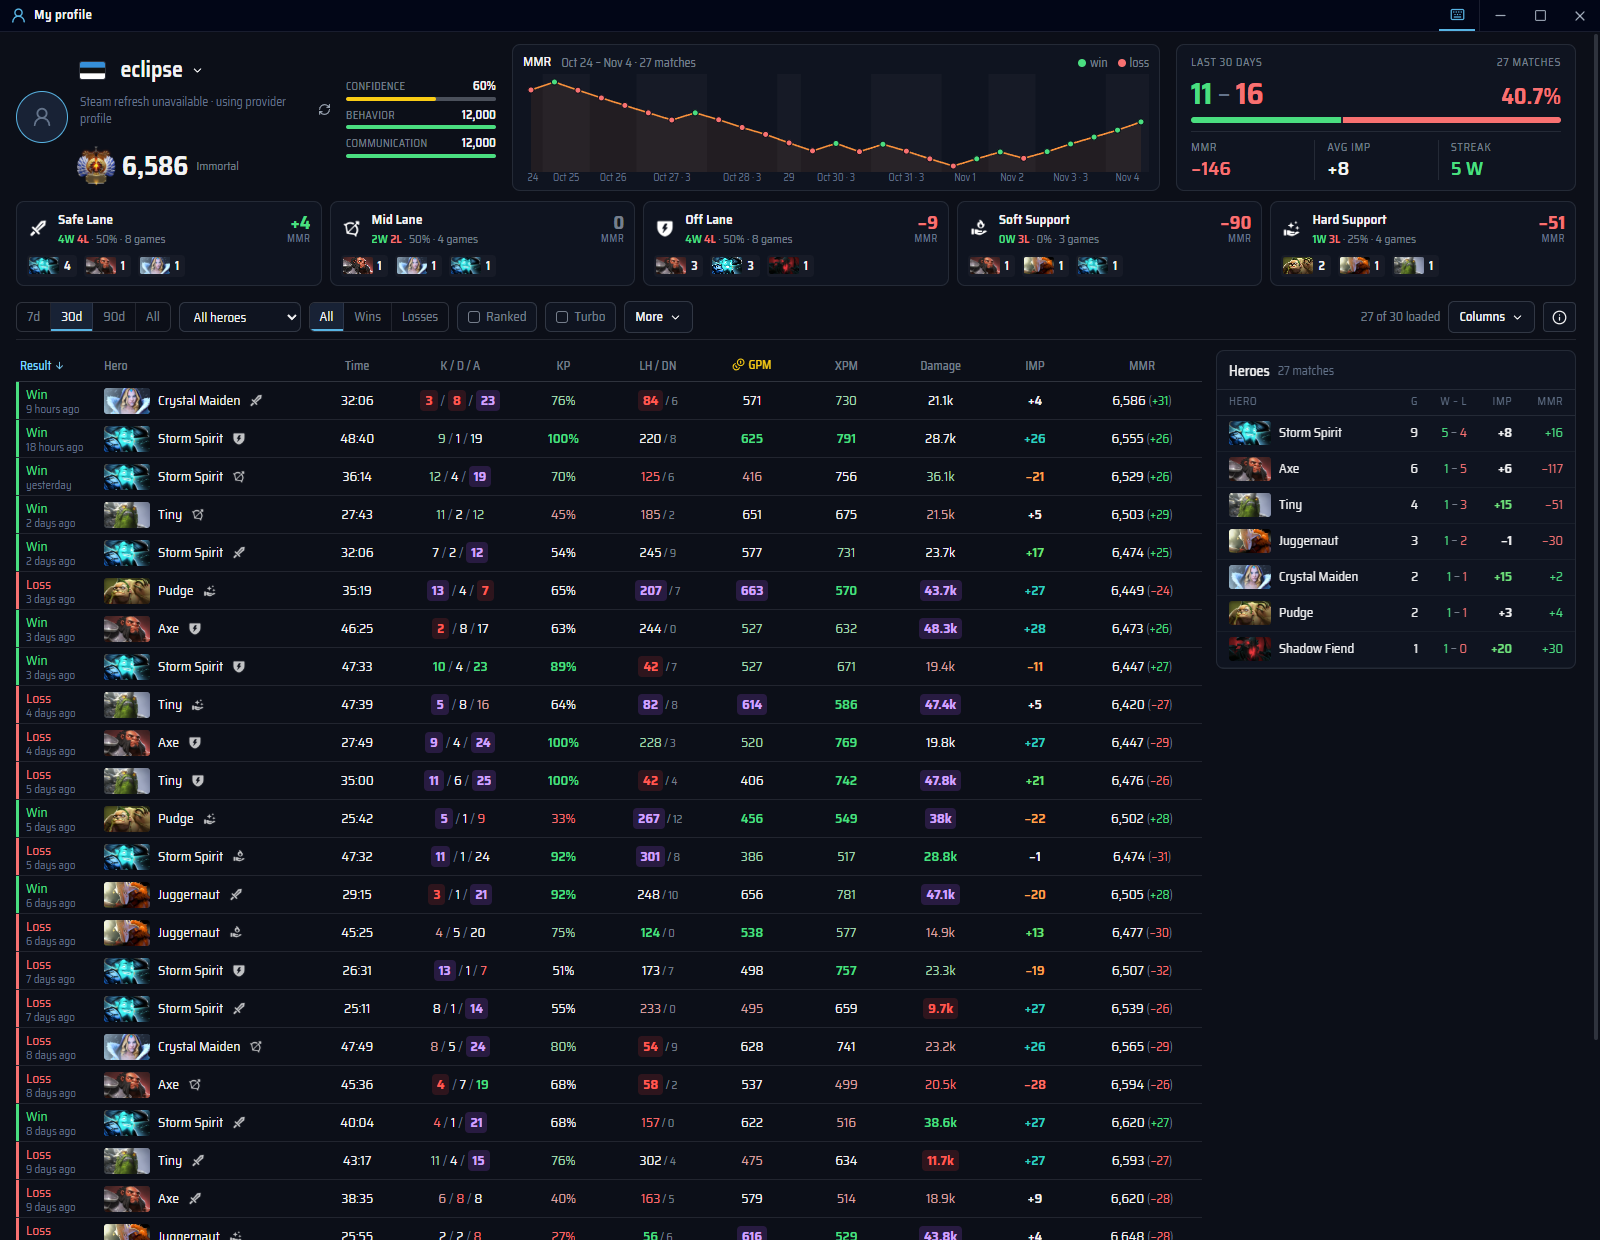
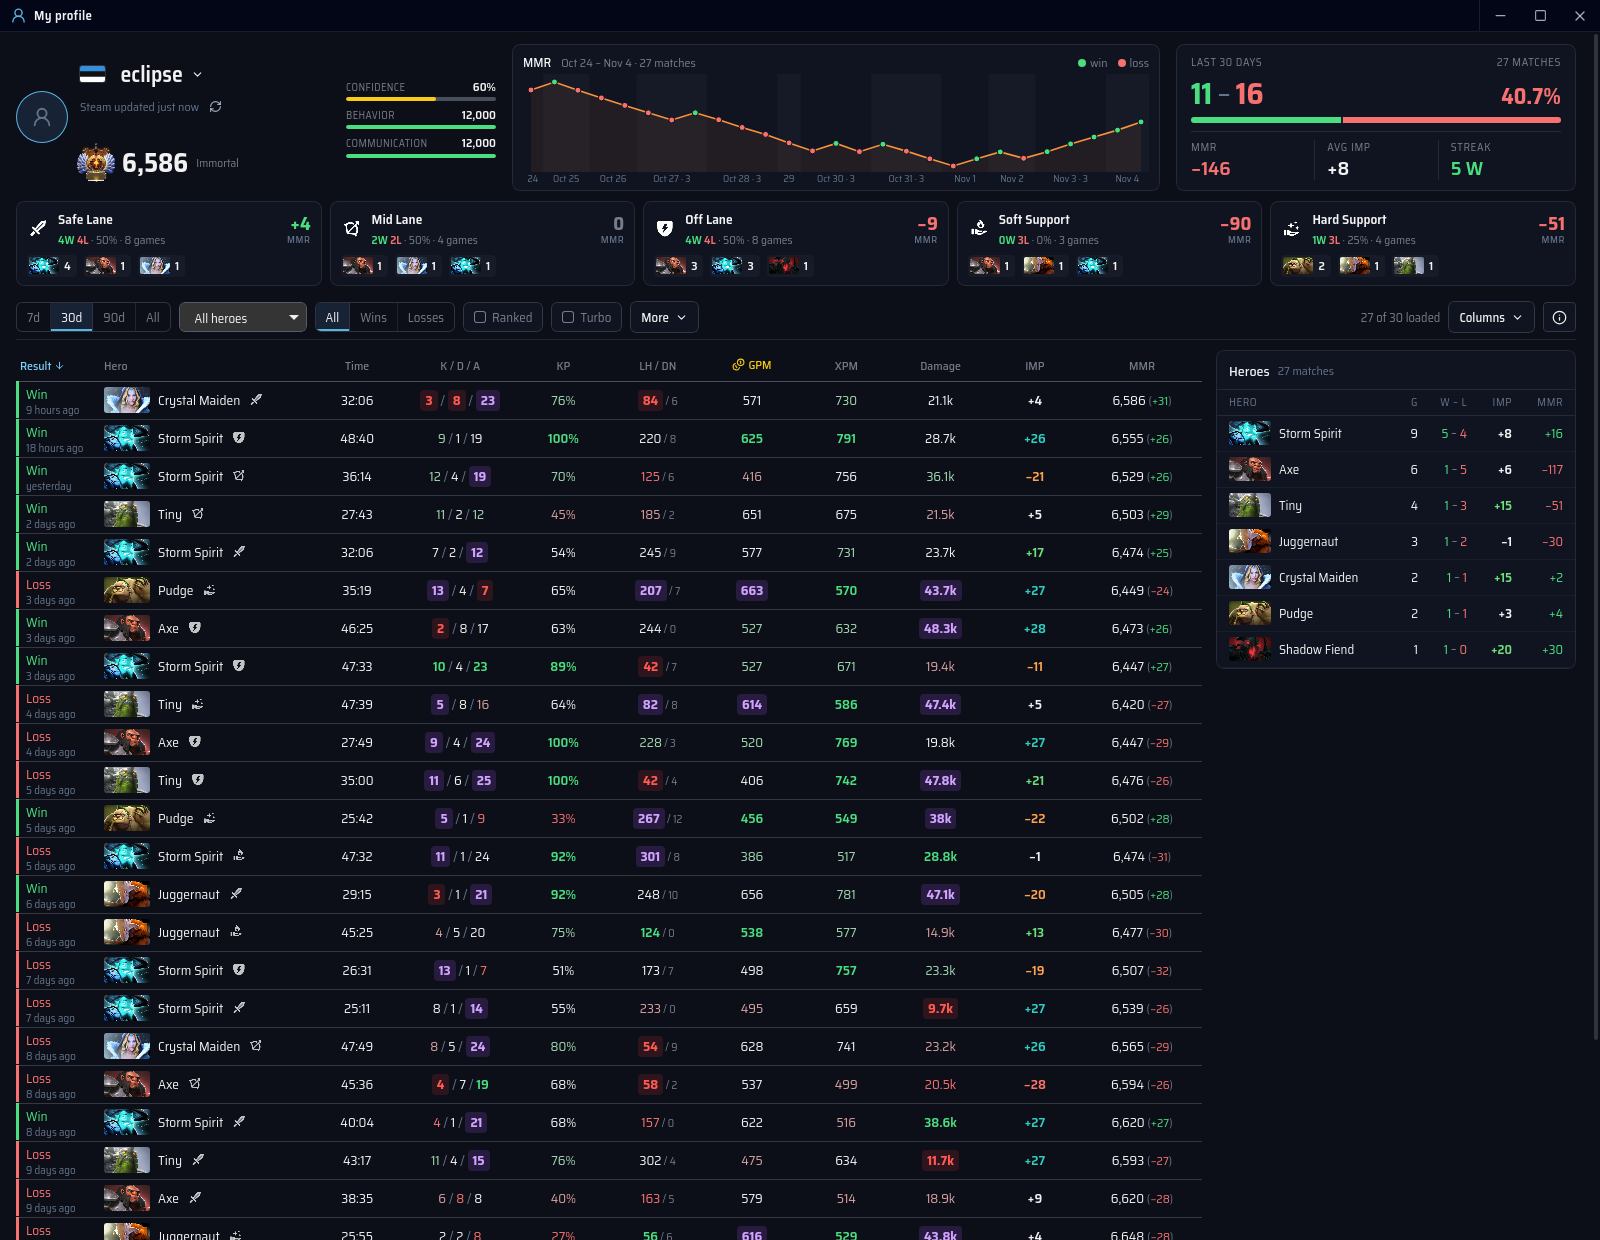
fix(docs): give screenshots and the demo a synthetic Steam identity (#124)
Since My profile refreshes the name and avatar from Steam Community (#87),
isolated runs served only a cached steam-profile-v1 fixture, and neither the
screenshot nor the demo script wrote one, so the profile header read "Steam
refresh unavailable · using provider profile". A fixture alone did not fit:
validation required a Steam CDN avatar, which a capture would then load.

Isolated runs now accept a fixture whose avatar is empty; the page draws its
placeholder, so nothing is requested from Steam or its image servers. Live
and non-isolated caches keep the strict Steam-host check. Both scripts write
a fresh fixture for the own account. The demonstration banner on My profile
follows the statistics only, so the synthetic identity does not add one to
the docs image; cached isolated history is still labelled.

docs/images/profile.png is regenerated.

Closes #121

diff --git a/src/ui/OwnProfile.tsx b/src/ui/OwnProfile.tsx
@@ -329,7 +329,9 @@ function OwnProfileContent({
           />
         }
       />
-      {(data?.demonstration || identity?.demonstration) && (
+      {/* Statistics decide: a fixture service's history is unlabelled, and so is the synthetic
+          Steam identity screenshots and demos add to it. Cached isolated history is labelled. */}
+      {data?.demonstration && (
         <p className="item-demo-label">Synthetic demonstration · invented profile and statistics</p>
       )}
       {error && <Notice error>{error}</Notice>}

diff --git a/src-tauri/src/api.rs b/src-tauri/src/api.rs
@@ -289,16 +289,18 @@ impl Api {
         let lock = self.lock(&key).await;
         let _guard = lock.lock().await;
         let path = self.directory.join(format!("{key}.json"));
-        let cached = read_cache(&path).filter(|value| crate::steam_profile::validate(value, &id));
-        // Isolated demos serve only synthetic fixtures, explicitly labelled.
+        // Isolated demos serve only synthetic fixtures, explicitly labelled; their avatar may
+        // be left empty so screenshots load nothing from Steam.
         if self.isolated {
-            return cached
+            return read_cache(&path)
+                .filter(|value| crate::steam_profile::validate_fixture(value, &id))
                 .map(|mut value| {
                     value["demonstration"] = json!(true);
                     value
                 })
                 .ok_or("No isolated Steam identity fixture".into());
         }
+        let cached = read_cache(&path).filter(|value| crate::steam_profile::validate(value, &id));
         if let Some(value) = cached
             .as_ref()
             .filter(|value| !refresh && fresh(value, crate::steam_profile::TTL))
@@ -1727,6 +1729,26 @@ mod partial_tests {
         let value = api.steam_profile("123", true).await.unwrap();
         assert_eq!(value["name"], "Invented");
         assert_eq!(value["demonstration"], true);
+        // Screenshots leave the avatar empty, so nothing loads from the Steam CDN.
+        crate::store::atomic_json(
+            &dir.path().join("steam-profile-v1-124.json"),
+            &json!({"accountId":"124","name":"Placeholder","source":"Steam Community",
+                "avatar":"","fetchedAt":"2020-01-01T00:00:00Z","stale":false}),
+        )
+        .unwrap();
+        let value = api.steam_profile("124", false).await.unwrap();
+        assert_eq!(
+            (value["name"].as_str(), value["avatar"].as_str()),
+            (Some("Placeholder"), Some(""))
+        );
+        // A fixture avatar outside the Steam hosts is still refused.
+        crate::store::atomic_json(
+            &dir.path().join("steam-profile-v1-125.json"),
+            &json!({"accountId":"125","name":"Elsewhere","source":"Steam Community",
+                "avatar":"https://example.com/a.jpg","fetchedAt":"2020-01-01T00:00:00Z","stale":false}),
+        )
+        .unwrap();
+        assert!(api.steam_profile("125", false).await.is_err());
     }
 
     #[tokio::test]

diff --git a/src-tauri/src/steam_profile.rs b/src-tauri/src/steam_profile.rs
@@ -36,12 +36,24 @@ fn avatar_url(value: &str) -> bool {
 }
 
 pub fn validate(value: &Value, id: &str) -> bool {
+    value["avatar"].as_str().is_some_and(avatar_url) && identity(value, id)
+}
+
+/// A synthetic identity for isolated screenshots and demos. The avatar may also be empty:
+/// the page then draws its own placeholder, so a capture loads nothing from Steam.
+pub fn validate_fixture(value: &Value, id: &str) -> bool {
+    value["avatar"]
+        .as_str()
+        .is_some_and(|avatar| avatar.is_empty() || avatar_url(avatar))
+        && identity(value, id)
+}
+
+fn identity(value: &Value, id: &str) -> bool {
     value["accountId"] == id
         && value["source"] == "Steam Community"
         && value["name"]
             .as_str()
             .is_some_and(|name| !name.trim().is_empty() && name.len() <= 200)
-        && value["avatar"].as_str().is_some_and(avatar_url)
         && value["fetchedAt"]
             .as_str()
             .is_some_and(|at| chrono::DateTime::parse_from_rfc3339(at).is_ok())
@@ -76,6 +88,19 @@ mod tests {
         assert_eq!(value["name"], "New name <3 & friends");
         assert_eq!(value["accountId"], "123");
         assert!(value.get("rank_tier").is_none());
+    }
+    #[test]
+    fn only_isolated_fixtures_may_leave_the_avatar_empty() {
+        let mut value = parse(&xml(), "123").unwrap();
+        assert!(validate(&value, "123") && validate_fixture(&value, "123"));
+        value["avatar"] = json!("");
+        assert!(!validate(&value, "123"));
+        assert!(validate_fixture(&value, "123"));
+        value["avatar"] = json!("http://localhost/avatar.png");
+        assert!(!validate_fixture(&value, "123"));
+        value["avatar"] = json!("");
+        value["name"] = json!(" ");
+        assert!(!validate_fixture(&value, "123"));
     }
     #[test]
     fn rejects_other_accounts_missing_identity_and_untrusted_avatars() {

diff --git a/docs/dev/architecture.md b/docs/dev/architecture.md
@@ -118,7 +118,10 @@ verifies the returned SteamID64 and returns only name/avatar identity. It uses a
 15-minute `steam-profile-v1-*` cache; an explicit refresh bypasses freshness, and failures
 fall back to the saved copy, labelled `stale`. `quick-xml` (already transitive) is a direct
 dependency to parse XML/CDATA without hand-written extraction. Isolated runs never request
-live Steam identities.
+live Steam identities: they serve only a `steam-profile-v1-<id>.json` fixture from the cache
+folder, marked `demonstration`. Only such a fixture may leave `avatar` empty, which draws the
+page's placeholder; `docs:screenshots` and `demo` write one so the header reads "Steam updated
+just now" without any request to Steam or its image servers.
 
 `state:add-profile` remembers an ID without switching the active account.
 `state:profile-account` returns a read-only account-scoped state for browsing. The profile
